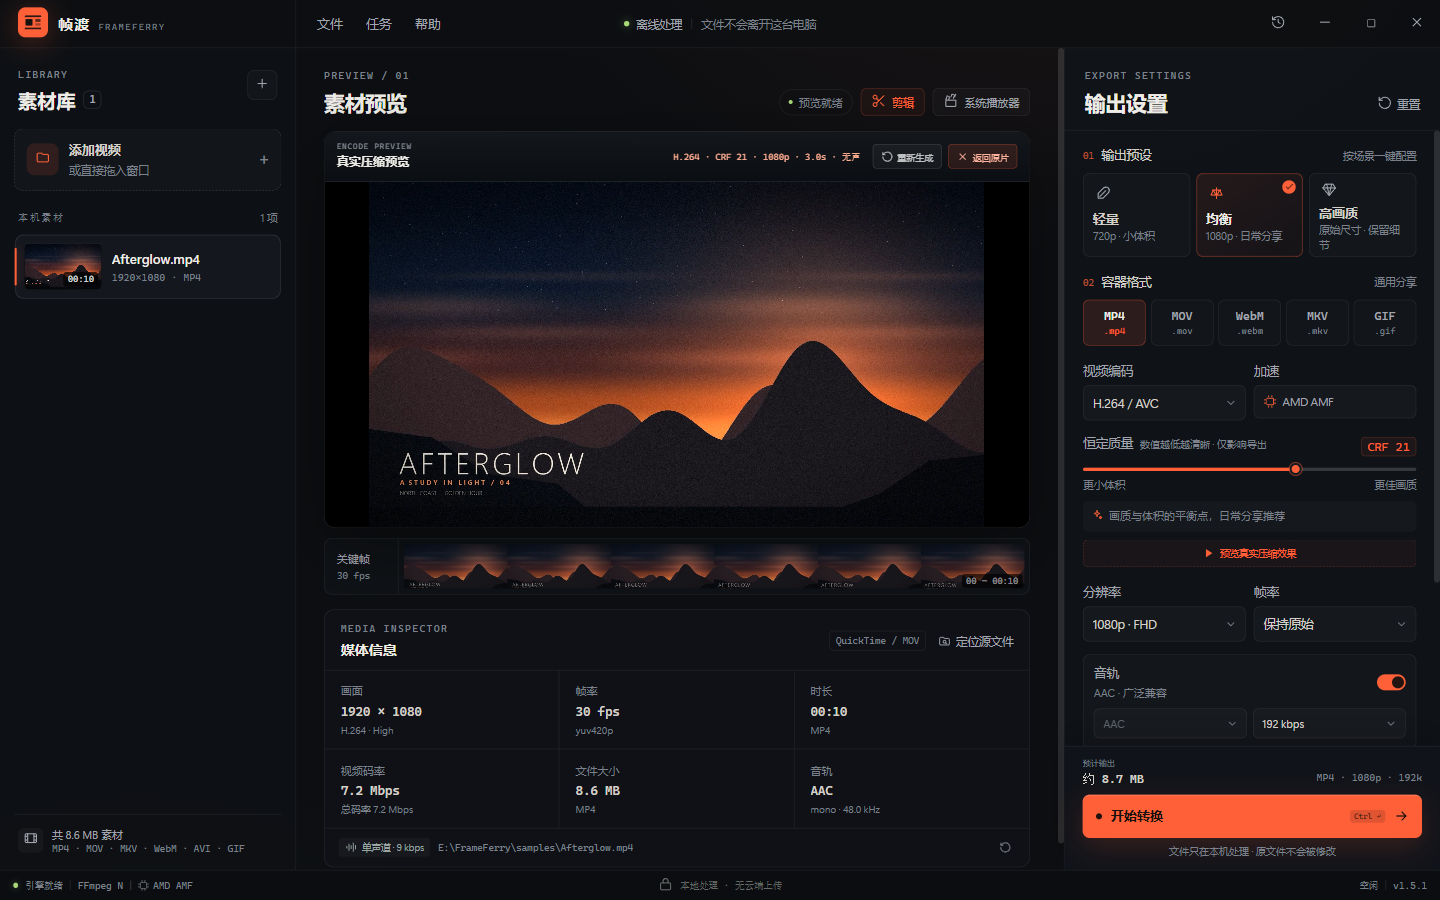
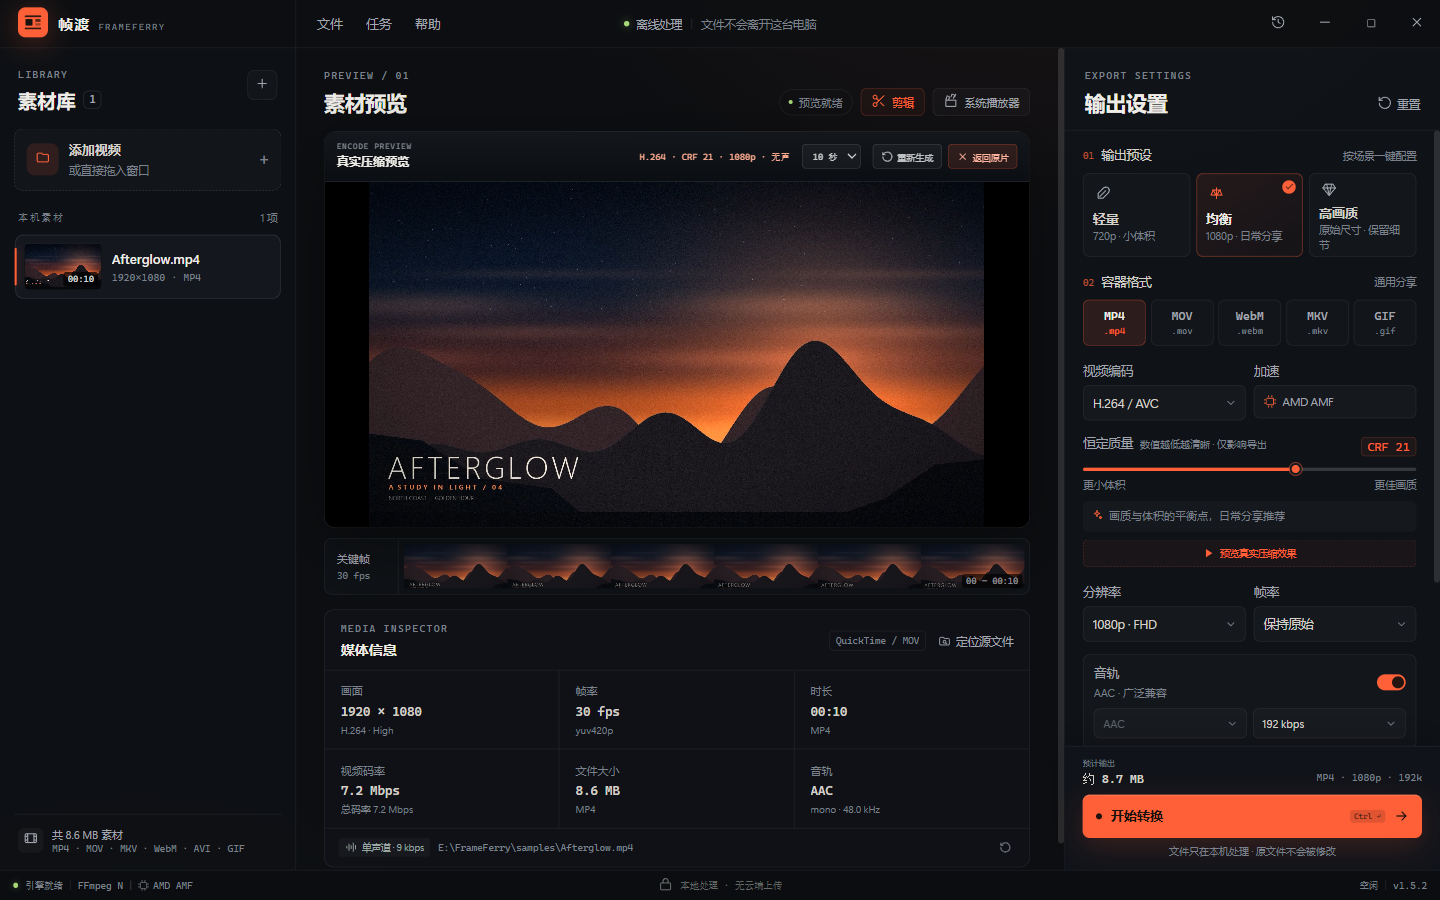
feat: 压缩预览支持 10 秒与时长选择
默认预览 10 秒，可切换 3/5/10/20 秒；切换后自动重编，主进程缓存自动清理。版本提升到 v1.5.2。

diff --git a/renderer/app.js b/renderer/app.js
@@ -259,7 +259,8 @@ const ui = {
     open: false,
     loading: false,
     token: 0,
-    timer: null
+    timer: null,
+    length: 10
   }
 }
 
@@ -425,7 +426,7 @@ async function generateQualityPreview() {
   const token = ++preview.token
   const duration = Number(info.duration) || 0
   if (duration <= 0) return
-  const length = Math.min(3, duration)
+  const length = Math.min(preview.length || 10, duration)
   const start = Math.min(Math.max(0, ui.currentTime || 0), Math.max(0, duration - length))
   const meta = qualityPreviewLabel()
   preview.loading = true
@@ -433,7 +434,7 @@ async function generateQualityPreview() {
   if (loading) loading.hidden = false
   if (errorBox) errorBox.hidden = true
   const metaLabel = $('#quality-preview-meta')
-  if (metaLabel) metaLabel.textContent = `${meta} · ${length.toFixed(1)}s · 无声`
+  if (metaLabel) metaLabel.textContent = `${meta} · 无声`
   const loadingText = $('#quality-preview-loading-text')
   if (loadingText) loadingText.textContent = `正在按 CRF ${state.settings.quality} 编码 ${length.toFixed(1)} 秒…`
 
@@ -482,6 +483,8 @@ function openQualityPreview() {
   $('#preview-video')?.pause()
   ui.qualityPreview.open = true
   overlay.hidden = false
+  const lengthSelect = $('#quality-preview-length')
+  if (lengthSelect) lengthSelect.value = String(ui.qualityPreview.length)
   void generateQualityPreview()
 }
 
@@ -554,6 +557,12 @@ function renderPreview() {
             <strong>真实压缩预览</strong>
           </div>
           <span class="quality-preview-meta" id="quality-preview-meta"></span>
+          <select class="qp-length" id="quality-preview-length" aria-label="预览时长">
+            <option value="3">3 秒</option>
+            <option value="5">5 秒</option>
+            <option value="10" selected>10 秒</option>
+            <option value="20">20 秒</option>
+          </select>
           <div class="quality-preview-actions">
             <button class="qp-button" data-quality-preview-action="refresh">${icon('rotate', 12)} 重新生成</button>
             <button class="qp-button is-close" data-quality-preview-action="close">${icon('x', 12)} 返回原片</button>
@@ -1693,6 +1702,14 @@ function bindEvents() {
       const file = activeFile()
       if (file) void api.showItemInFolder(file.path)
     }
+  })
+
+  $('#preview-body').addEventListener('change', (event) => {
+    if (event.target.id !== 'quality-preview-length' || !ui.qualityPreview.open) return
+    const length = Number(event.target.value)
+    if (!Number.isFinite(length)) return
+    ui.qualityPreview.length = Math.max(3, Math.min(20, length))
+    void generateQualityPreview()
   })
 
   $('#preview-body').addEventListener('click', (event) => {

diff --git a/renderer/styles.css b/renderer/styles.css
@@ -4430,3 +4430,25 @@ input:focus-visible {
     margin-left: auto;
   }
 }
+
+.qp-length {
+  height: 25px;
+  padding: 0 6px;
+  border: 1px solid rgba(255, 255, 255, 0.14);
+  border-radius: 4px;
+  background: rgba(255, 255, 255, 0.04);
+  color: rgba(255, 255, 255, 0.78);
+  font-family: var(--mono);
+  font-size: 9px;
+  outline: none;
+  cursor: pointer;
+}
+
+.qp-length:focus {
+  border-color: rgba(255, 96, 56, 0.55);
+}
+
+.qp-length option {
+  background: #171b21;
+  color: #f1f1eb;
+}

diff --git a/README.md b/README.md
@@ -39,7 +39,7 @@ E:\FrameFerry\FrameFerry.exe
 - **工作台**：画面预览、自定义播放控制、关键帧胶片条、媒体检查器。
 - **分割与剪辑**：预览右上角或播放控制条右侧的剪刀「剪辑」按钮打开时间轴；白色竖线就是分割位置，拖动白线定位后按 `Ctrl+B`、双击白线或点「分割」，视频会被拆成多个片段，切点会留下白色分割线。选中片段后，两端出现参考剪映的白色圆角手柄，拖动即可再次裁剪，拖动时显示长度气泡；也可直接删除片段。转换按钮变为「转换片段」，FFmpeg 只导出保留的片段并按顺序拼接。
 - **输出设置**：场景预设、容器/编码器联动、恒定质量、分辨率与帧率、音轨、高级选项。关闭音轨后预览同步静音；GIF 输出也会强制静音。CRF、分辨率和帧率只影响导出文件，原始预览不套用编码参数。
-- **真实压缩预览**：在质量设置下方点「预览真实压缩效果」，会按当前 CRF、分辨率、帧率和硬件编码器实际编码 3 秒片段并播放；拖动 CRF 或改分辨率/帧率时会自动重新编码。预览片段无声，专注画质对比。
+- **真实压缩预览**：在质量设置下方点「预览真实压缩效果」，会按当前 CRF、分辨率、帧率和硬件编码器实际编码片段并播放；默认 10 秒，可切换 3/5/10/20 秒。拖动 CRF 或改分辨率/帧率时会自动重新编码。预览片段无声，专注画质对比。
 - **默认保存文件夹**：设置一次，后续新素材自动使用该目录；可随时更改或恢复「跟随源文件」。选择会写入本机 `settings.json`，重启后仍然有效。
 - **动作 Dock**：预计体积、主操作「开始转换」、当前/最近任务和进度常驻在视线内。
 - **桌面细节**：`Ctrl+O` 添加、`Ctrl+Enter` 转换、空格播放/暂停、`Esc` 关闭浮层；系统保存对话框；输出文件在资源管理器中定位。

diff --git a/docs/TEST_REPORT.md b/docs/TEST_REPORT.md
@@ -125,8 +125,8 @@
 | 无黄色遮挡 | 选中片段为白色描边，联系表保持原亮度；删除区显示深色斜纹 |
 | 质量滑块同步 | 方向为左「更小体积」/ 右「更佳画质」；CRF 24 时滑块与橙色填充都在 42.9% |
 | 预览音轨同步 | 关闭音轨后 `video.muted=true`、扬声器按钮禁用；重新打开恢复；切 GIF 静音，切回 MP4 恢复音轨 |
-| 真实压缩预览 | 按 CRF 21 生成 3s H.264 样本 2.88 MB；CRF 16 样本 6.24 MB；自动重编成功 |
-| 压缩预览交互 | 打开后自动播放；拖动 CRF 自动刷新；切 GIF 自动关闭；关闭后恢复原片 |
+| 真实压缩预览 | 默认 10s，CRF21 样本约 8.65 MB；切 5s 后约 4.60 MB；3/5/10/20s 可选 |
+| 压缩预览交互 | 打开后自动播放；拖动 CRF / 切换时长自动重编；切 GIF 自动关闭；关闭后恢复原片 |
 | 分割与删除 MP4 | 在 3s、7s 分割后删除中间段，输出 6.000s，音画均保留 |
 | 分割片段再裁剪 | 把首段出点从 3.0s 拖到 2.5s，输出 5.500s |
 | 分割后 GIF | 保留 0–3s / 7–10s，输出 75 帧 / 6s / 全部 80ms |
